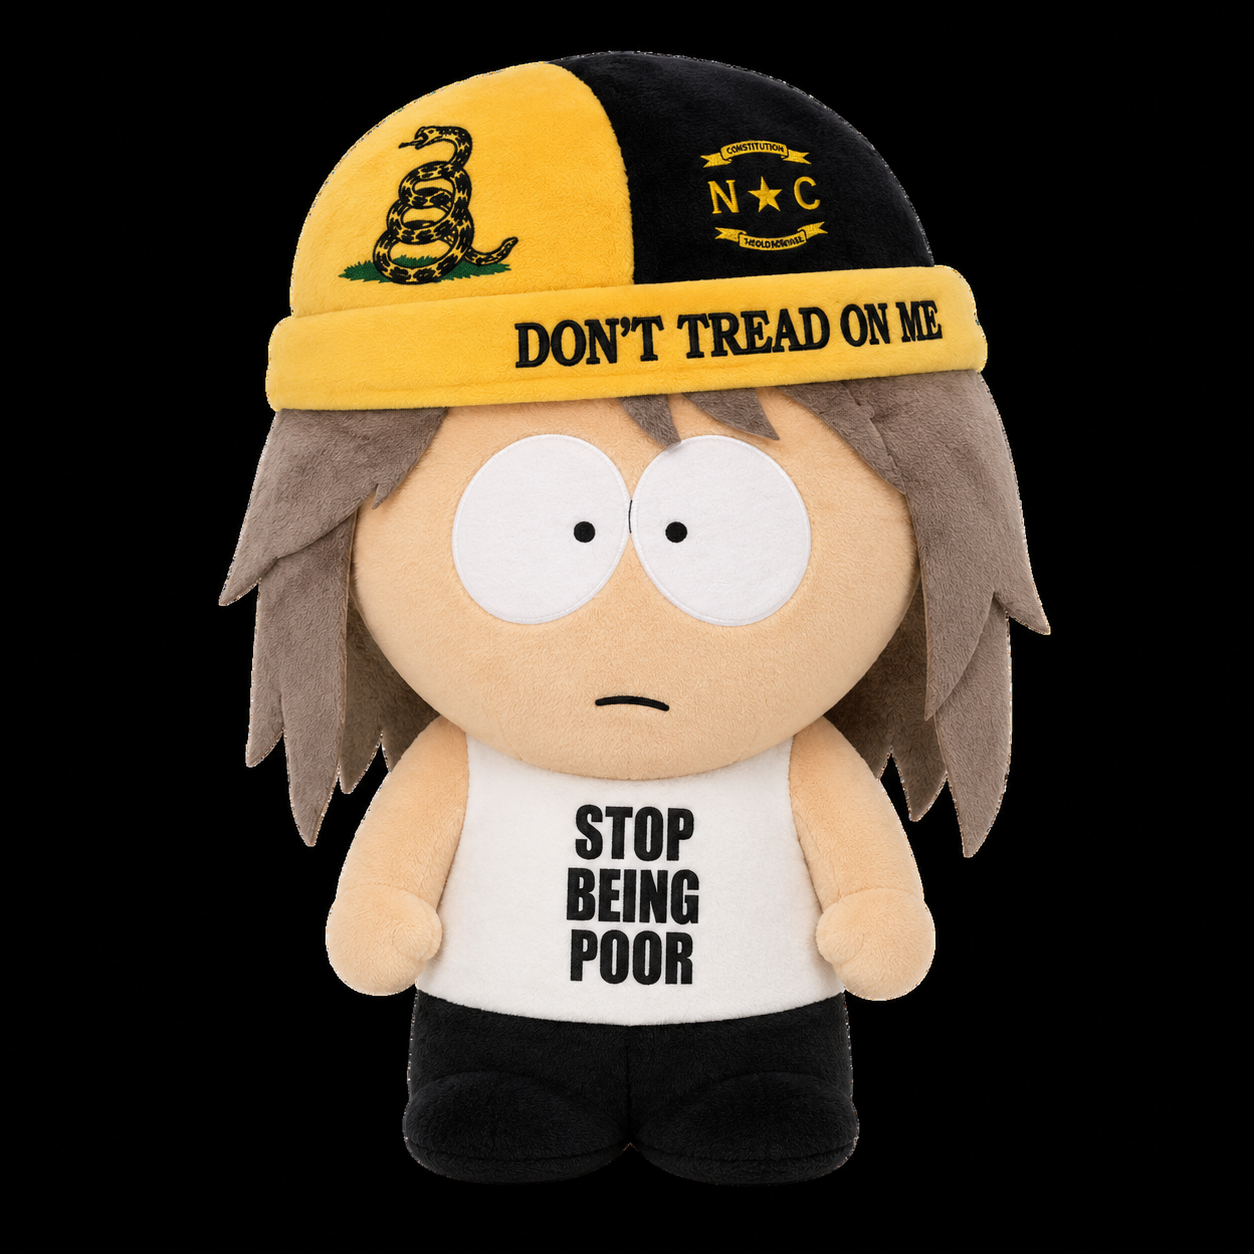
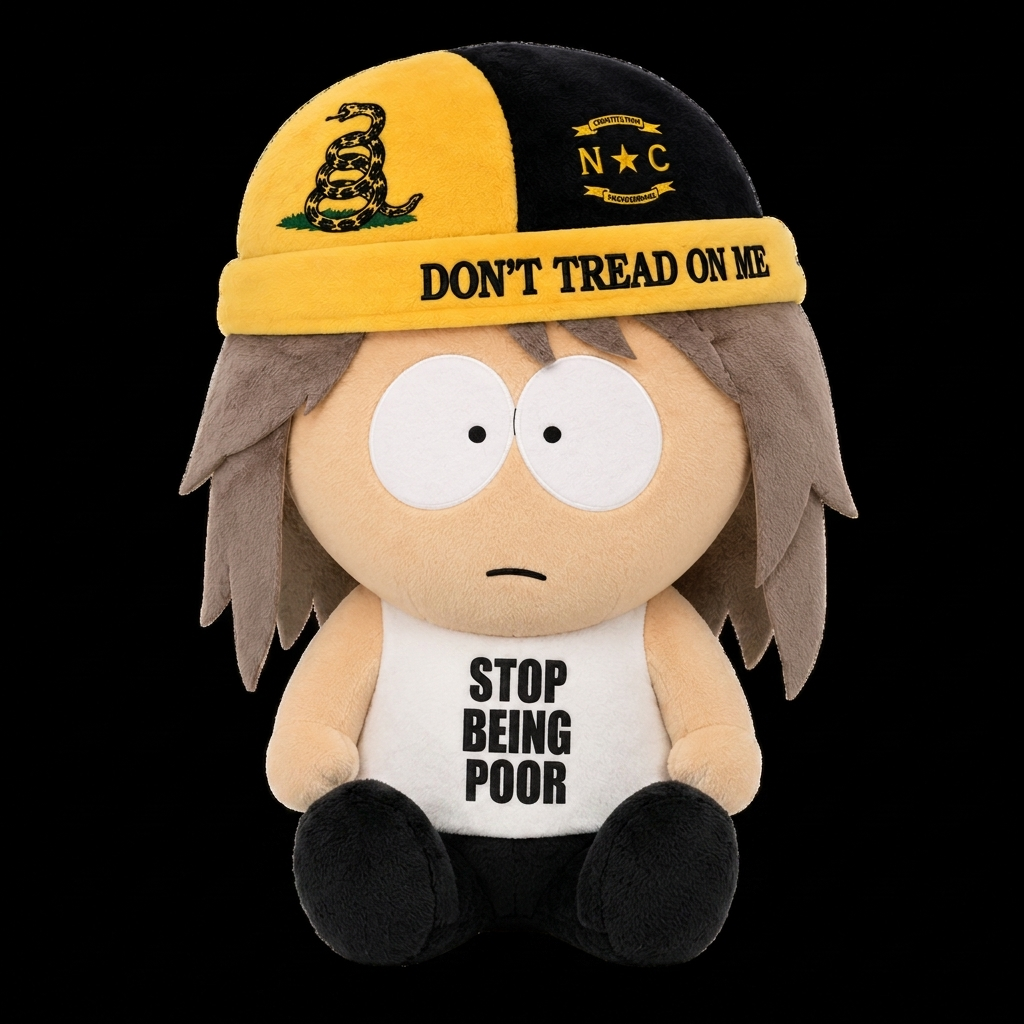
Fix plushie card backgrounds — consistent product layout

diff --git a/styles.css b/styles.css
@@ -1592,3 +1592,30 @@ body.streaming-platform {
     text-shadow: 4px 4px 0 #000;
     margin-bottom: 1.2rem;
 }
+
+/* =========================================
+   PLUSHIE CARD — consistent product bg
+   ========================================= */
+
+.plushie-img-wrap {
+    background: #f2f0ec !important;
+    height: 320px;
+    overflow: hidden;
+    position: relative;
+}
+
+.plushie-img-wrap img {
+    width: 100%;
+    height: 100%;
+    object-fit: contain;
+    object-position: center;
+    padding: 1.2rem;
+    transition: transform 0.4s ease;
+}
+
+.plushie-locked {
+    background: #111 !important;
+    display: flex;
+    align-items: center;
+    justify-content: center;
+}

diff --git a/store.html b/store.html
@@ -99,7 +99,7 @@
 
             <div class="plushie-card">
                 <div class="plushie-img-wrap">
-                    <img src="Store/Floyd.jpeg" alt="Floyd Plushie">
+                    <img src="Store/Floyd.png" alt="Floyd Plushie">
                     <div class="plushie-badge">Available</div>
                 </div>
                 <div class="plushie-info">
